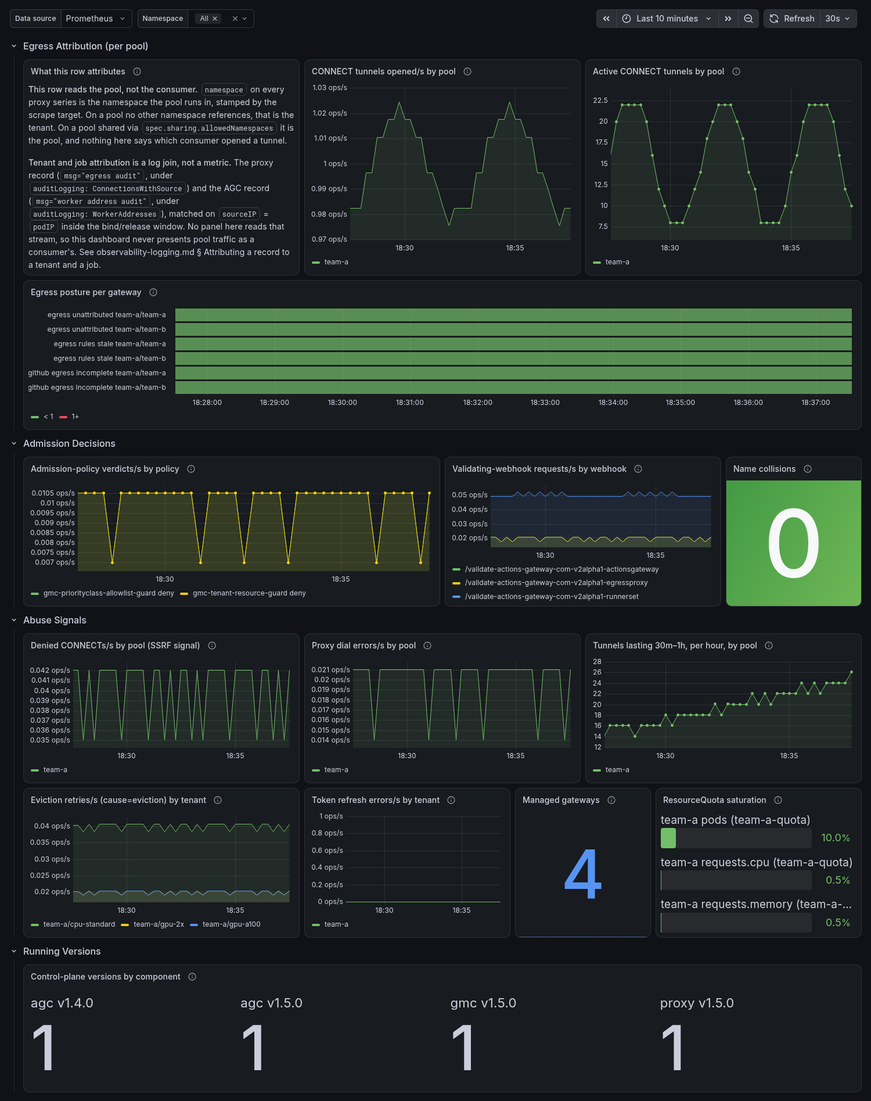
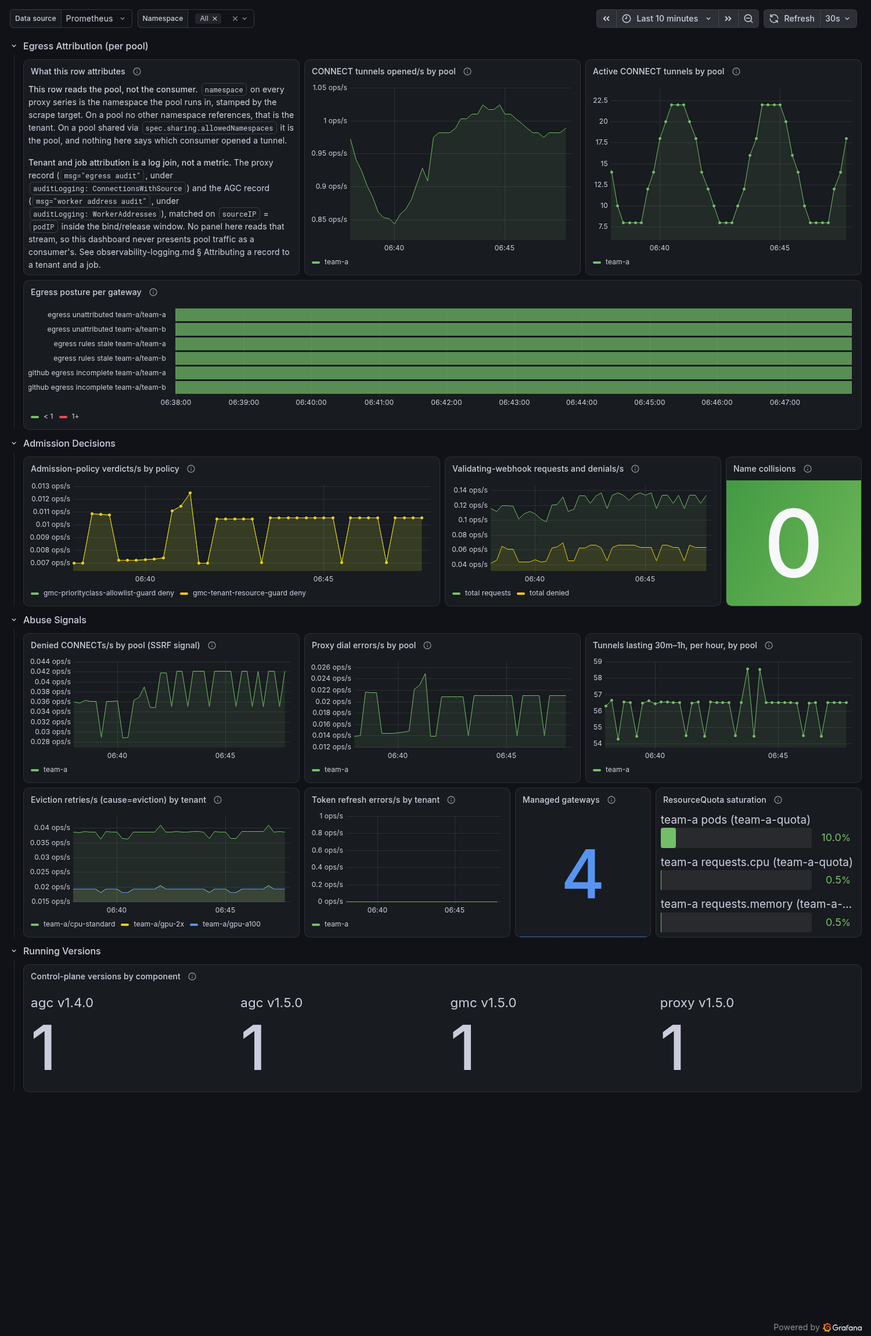
fix(monitoring): two abuse alerts that cannot fire (Q1061) (#1873)
* docs(queue): Q1061 lands; Q1071 files the gate gap that let it ship

Q1061's two inert abuse-alert expressions are fixed. Its stated cause was
wrong: promql-check does not parse the doc's expressions, it never opens
docs/operations/security-operations.md at all. Q1071 carries that,
measured, with the expression-only mode it needs.

* fix(monitoring): two abuse alerts that cannot fire (Q1061)

ActionsGatewayWebhookRejections selected code="403" on
controller_runtime_webhook_requests_total. A validating webhook returns
its denial as an HTTP 200 whose AdmissionReview body carries the 403 --
ValidationResponse sets Result.Code and writeAdmissionResponse takes an
io.Writer and never calls WriteHeader -- and the code label is the HTTP
status promhttp.InstrumentHandlerCounter observed, so the 403 series
never exists. The rule now reads the apiserver's own
apiserver_admission_webhook_rejection_count, which parses that body:
ToStatusErr preserves Result.Code, and the validating dispatcher passes
it as rejection_code with error_type=no_error. Scoped to the six webhook
names the chart ships, to no_error (reached and refusing, not
unreachable under failurePolicy Fail), and to 403 (a validator's denial,
against the 400 of a malformed AdmissionReview). The threat-map row that
made the same claim in prose moves with it, and the source becomes the
apiserver scrape.

ActionsGatewayProxyLongLivedTunnels subtracted two selectors differing
[…]

diff --git a/deploy/monitoring/preview/exporter.py b/deploy/monitoring/preview/exporter.py
@@ -38,6 +38,20 @@ GATED_SCALESETS = {("team-a", "gpu-a100"), ("team-b", "cpu-standard")}
 # set so the withheld stack shows a scaleup band without implying every set carries one.
 RATE_LIMITED_SCALESETS = {("team-a", "cpu-standard")}
 
+# Every validating webhook the chart ships, as (path, apiserver name, requests/s,
+# denials/s). All six are listed rather than a sample because the security
+# dashboard sums across them: a preview carrying a subset renders totals below
+# what any real install produces, and a legend sized against the wrong series
+# count (Q1061).
+WEBHOOKS = (
+    ("/validate-actions-gateway-github-com-v1alpha1-actionsgateway", "vactionsgateway-v1alpha1.kb.io", 0.02, 0.010),
+    ("/validate-actions-gateway-com-v2alpha1-actionsgateway", "vactionsgateway-v2alpha1.kb.io", 0.02, 0.010),
+    ("/validate-actions-gateway-com-v2alpha1-clusterrunnertemplate", "vclusterrunnertemplate-v2alpha1.kb.io", 0.01, 0.010),
+    ("/validate-actions-gateway-com-v2alpha1-egressproxy", "vegressproxy-v2alpha1.kb.io", 0.02, 0.010),
+    ("/validate-actions-gateway-com-v2alpha1-runnerset", "vrunnerset-v2alpha1.kb.io", 0.05, 0.012),
+    ("/validate-actions-gateway-com-v2alpha1-runnertemplate", "vrunnertemplate-v2alpha1.kb.io", 0.01, 0.010),
+)
+
 # Declared worker ceiling per scale set: the total the admission rungs subtract from,
 # and therefore the height of the withheld stack on the budget dashboard (Q969).
 SCALESET_CEILINGS = {
@@ -284,14 +298,20 @@ def render():
     # Admission decisions, read by the security dashboard. The GMC's validating
     # webhooks count every request on the controller-runtime counter, and a
     # denial is an HTTP 200 whose body carries the 403, so the synthetic series
-    # carry code="200" only. The ValidatingAdmissionPolicy verdicts come from
+    # carry code="200" only. The apiserver parses that body, so the denials the
+    # same panel plots come from its rejection counter instead (Q1061), which
+    # the kind apiserver cannot produce without the GMC's webhooks installed. Its
+    # rates sit just above the 0.01/s floor rather than at a realistic fraction
+    # of the request rate: below it the counter is flat across the render window
+    # (Q704), which reads as a broken panel. The ValidatingAdmissionPolicy verdicts come from
     # the apiserver's own counter, whose label values are lowercase (deny,
     # audit, warn, and allow for an evaluation error admitted under
     # failurePolicy Ignore) and whose error_type is never empty; the kind
     # apiserver behind the preview has no such policy, so the exporter stands
     # in for it under the names the chart's default namePrefix produces.
-    for hook, rate in (("runnerset", 0.05), ("actionsgateway", 0.02), ("egressproxy", 0.02)):
-        L.append(f'controller_runtime_webhook_requests_total{{webhook="/validate-actions-gateway-com-v2alpha1-{hook}",code="200"}} {counter_total(rate, elapsed)}')
+    for path, name, rate, denied in WEBHOOKS:
+        L.append(f'controller_runtime_webhook_requests_total{{webhook="{path}",code="200"}} {counter_total(rate, elapsed)}')
+        L.append(f'apiserver_admission_webhook_rejection_count{{name="{name}",type="validating",operation="CREATE",error_type="no_error",rejection_code="403"}} {counter_total(denied, elapsed)}')
     for policy in ("gmc-tenant-resource-guard", "gmc-priorityclass-allowlist-guard"):
         L.append(f'apiserver_validating_admission_policy_check_total{{policy="{policy}",policy_binding="{policy}-binding",error_type="no_error",enforcement_action="deny"}} {counter_total(0.01, elapsed)}')
 

diff --git a/docs/operations/security-operations.md b/docs/operations/security-operations.md
@@ -57,7 +57,7 @@ Two detection substrates are used:
 | **Proxy Pool Exhaustion / slowloris** ([§5.2](../design/05-security.md#52-agc--proxy-level-threats-namespace-scoped), M-17/M-18) | `proxy_connections_active` pinned near capacity; `proxy_tunnel_duration_seconds` mass in the 6h bucket | Metric | Page |
 | **Server-Side Request Forgery (SSRF) / destination probing via proxy** ([§5.2](../design/05-security.md#52-agc--proxy-level-threats-namespace-scoped), M-2/M-12) | `proxy_connect_denied_total` rate rising — every increment is an explicit allowlist denial (a workload reaching for an off-allowlist destination), so this is the precise signal; corroborate with a `proxy_dial_errors_total` spike. The counter says a probe happened, not what it reached: [per-connection egress audit](#per-connection-egress-audit) names the destination, but only on a pool that had it enabled before the incident | Metric (+ optional log) | Ticket |
 | **DoS via Resource Exhaustion** ([§5.2](../design/05-security.md#52-agc--proxy-level-threats-namespace-scoped)) — rogue workflow exhausting tenant quota | `kube_resourcequota` used/hard ratio sustained at 1.0 | Metric (kube-state-metrics) | Ticket |
-| **`ActionsGateway` CR in reserved namespace / spec probing** ([§5.1](../design/05-security.md#51-gmc-level-threats-cluster-scoped)) | Admission webhook `403` rejection rate | Metric (controller-runtime) | Ticket |
+| **`ActionsGateway` CR in reserved namespace / spec probing** ([§5.1](../design/05-security.md#51-gmc-level-threats-cluster-scoped)) | `apiserver_admission_webhook_rejection_count{error_type="no_error", rejection_code="403"}` rate on the GMC's webhook names. Read the **apiserver's** counter, not controller-runtime's: a validating webhook returns its denial as an HTTP 200 whose `AdmissionReview` body carries the 403, so `controller_runtime_webhook_requests_total{code=…}` cannot separate a deny from an allow | Metric (apiserver) | Ticket |
 | **Cross-Tenant GitHub App Credential Leakage / key compromise** ([§5.1](../design/05-security.md#51-gmc-level-threats-cluster-scoped)) | `token_refresh_errors_total` spike (key revoked out-of-band, or a forged token rejected) | Metric | Page |
 | **Mass tenant provisioning** ([§5.1](../design/05-security.md#51-gmc-level-threats-cluster-scoped)) — compromised GMC deploying workloads | `managed_gateways` jumps unexpectedly | Metric | Page |
 | **AGC overpermissioned Secret access** ([§5.2](../design/05-security.md#52-agc--proxy-level-threats-namespace-scoped), H-2 residual) — compromised AGC binary issuing a full-body Secret `list` | AGC ServiceAccount `list secrets` in audit log (legit code path is metadata-only — see [security.md H-2](../plan/security.md)) | Audit log | Page |
@@ -67,7 +67,7 @@ Two detection substrates are used:
 
 ## Prometheus abuse alerts
 
-These rules reference metrics that are emitted today ([observability.md § Full Metrics Reference](observability-metrics.md#full-metrics-reference)).
+These rules reference metrics that are emitted today ([observability.md § Full Metrics Reference](observability-metrics.md#full-metrics-reference)), except two that read the cluster rather than this project: `ActionsGatewayWebhookRejections` needs the apiserver scrape and `ActionsGatewayQuotaExhausted` needs kube-state-metrics.
 Drop them into the same `PrometheusRule` group as the SLO alerts, or a dedicated `actions-gateway-security` group.
 Tune thresholds to your fleet.
 The [security dashboard](observability-dashboards.md#security-dashboard) plots the series each rule fires on, one panel per rule, so a reviewer can read the signal behind an alert rather than only the alert.
@@ -114,13 +114,18 @@ groups:
       # Page: tunnels accumulating in the top (6h) duration bucket means
       # connections are riding the absolute lifetime cap — the M-18
       # slowloris signature.
+      #
+      # Each bucket is summed per namespace before the subtraction (Q1061). A
+      # bare `increase(...) - increase(...)` is a one-to-one vector match on
+      # every label, and the two sides differ on `le`, so nothing matches and
+      # the rule can never fire.
       - alert: ActionsGatewayProxyLongLivedTunnels
         expr: |
-          increase(
-            actions_gateway_proxy_tunnel_duration_seconds_bucket{le="3600"}[1h]
+          sum by (namespace) (
+            increase(actions_gateway_proxy_tunnel_duration_seconds_bucket{le="3600"}[1h])
           ) -
-          increase(
-            actions_gateway_proxy_tunnel_duration_seconds_bucket{le="1800"}[1h]
+          sum by (namespace) (
+            increase(actions_gateway_proxy_tunnel_duration_seconds_bucket{le="1800"}[1h])
           ) > 20
         for: 15m
         labels:
@@ -196,15 +201,37 @@ groups:
 
       # Ticket: admission webhook rejecting CRs — a tenant repeatedly
       # probing reserved namespaces or invalid specs.
+      #
+      # This reads the APISERVER's rejection counter, not the GMC's request
+      # counter (Q1061). controller-runtime returns a denial as an HTTP 200
+      # whose AdmissionReview body carries the 403, so
+      # controller_runtime_webhook_requests_total{code="403"} selects a series
+      # that never exists. The apiserver reads the body, so it records the 403.
+      #
+      # error_type="no_error" means the webhook was reached and said no. The
+      # other values (calling_webhook_error, apiserver_internal_error) are the
+      # GMC being unreachable under failurePolicy: Fail, an availability
+      # problem alerted elsewhere rather than abuse. rejection_code="403" is
+      # what a validator's Denied() produces; a 400 is a malformed
+      # AdmissionReview.
+      # Label semantics read from kubernetes/kubernetes at release-1.36 on
+      # 2026-09-07. The metric is ALPHA-stability, so the label set can change
+      # across minor versions.
       - alert: ActionsGatewayWebhookRejections
         expr: |
-          rate(controller_runtime_webhook_requests_total{code="403"}[10m]) > 0.1
+          sum by (name, operation) (
+            rate(apiserver_admission_webhook_rejection_count{
+              name=~"v(actionsgateway-v1alpha1|actionsgateway-v2alpha1|clusterrunnertemplate-v2alpha1|egressproxy-v2alpha1|runnerset-v2alpha1|runnertemplate-v2alpha1)\\.kb\\.io",
+              error_type="no_error",
+              rejection_code="403"
+            }[10m])
+          ) > 0.1
         for: 15m
         labels:
           severity: warning
         annotations:
-          summary: "Admission webhook rejecting ActionsGateway requests"
-          description: "Sustained 403s from the validating webhook. Check which principal is submitting CRs to reserved namespaces or with invalid specs."
+          summary: "Admission webhook {{ $labels.name }} rejecting {{ $labels.operation }} requests"
+          description: "Sustained denials from a GMC validating webhook. Check which principal is submitting CRs to reserved namespaces or with invalid specs. Requires the apiserver scrape (kube-prometheus-stack scrapes it by default); the GMC scrape cannot answer this."
 ```
 
 > **Note on labels.** The proxy metrics (`actions_gateway_proxy_*`) carry no intrinsic `namespace` label — each per-tenant proxy is a separate scrape target.

diff --git a/docs/queue/Q1074.md b/docs/queue/Q1074.md
@@ -1,0 +1,40 @@
+---
+id: Q1074
+rank: b48
+labels:
+    - debt
+    - tests
+status: ready
+size: S
+target: ../../deploy/monitoring/preview/render.sh
+---
+
+# render.sh reports success on an all-empty dashboard render
+
+`render()` checks that Grafana's `/render` call returned HTTP 200 and prints the file size.
+Neither reading can tell a populated dashboard from one where every panel says "No data", so the harness exits 0 and writes four PNGs a session then commits.
+
+Measured 2026-09-07 while working Q1061.
+An `exporter.py` edit tripped the Q704 counter floor (`ValueError: counter rate 0.004 is below 0.01/s`), so the process died at startup: `__main__` calls `render()` unconditionally before `HTTPServer(...).serve_forever()` and outside any `try`, and `counter_total` raises on `rate < MIN_COUNTER_RATE` alone, with no dependence on `elapsed`.
+Confirmed by running the edited file directly, which exited 1 on that line without binding :9100.
+That startup crash is the Q704 design working as its docstring says it should.
+Prometheus scraped nothing for the whole 660s window, every panel on all four dashboards rendered "No data", and `render.sh` exited 0 and wrote the PNGs.
+
+**Why `kubectl rollout status` still passed is not established, and the row does not need it.** The container carries no `readinessProbe` and no `livenessProbe`, so a pod counts Ready the moment the container is Running, which a process that starts and exits satisfies for a moment.
+That fits `render.sh` logging `successfully rolled out`, and it is a hypothesis: a peer session re-applied the shared cluster from its own worktree before the pod state was inspected, so the ReplicaSet sequence this run actually produced was not observed and cannot be recovered.
+What is verified is the pair that makes the gap real either way: `rollout status` on a probe-less Deployment is the only liveness gate the harness has, and nothing afterwards checks that a single series exists.
+The security PNG was 223,577 bytes against the committed one's 281,994, so size is not a signal either: a dark-theme dashboard of empty panels compresses to the same order as a full one, and `trim_bottom` crops to the last non-background row, which the panel chrome supplies regardless.
+
+What caught it was opening the PNG.
+Nothing else in the loop would have: `make dashboard-render-check` compares *whether* the PNG changed against the JSON diff, never what it shows, so a committed empty render satisfies it exactly as a good one does.
+
+**The check belongs before the render, not after it.** A sentinel query against Prometheus once the accumulation window closes fails in seconds with a cause (`actions_gateway_build_info` has no `namespace` label and no rate, so it is present or the scrape is broken), where a post-hoc pixel heuristic on the PNG would be both slower and vaguer.
+Worth also failing on a `/metrics` fetch that does not return 200 before the wait starts, which would have caught this instance 11 minutes earlier.
+
+**A sentinel proves the data exists, not that the render is readable**, and the second failure mode is the one nothing here can reach.
+A panel populated *wrongly* passes every check in the loop: the Q969 session's own render of this same harness came back with two stacked panels auto-scaling their y-axis to a ~50 floor, truncating the bottom band of a stack whose entire claim is that the total equals a declared ceiling, and with refusal bands at roughly 1% of the acquired series, rendering the panel as one solid blob.
+Both are legible only to a human or a vision pass opening the image.
+So the sentinel is the cheap floor rather than the answer, and a session that adds one has not been relieved of looking at the PNG.
+
+Neighbour to [Q1072](Q1072.md), which is the harness's other unguarded shared-state problem: no lock on the `gag-obs` cluster.
+Different mechanism, and one fix does not close the other: a lock still lets a session commit an empty render, and a sentinel query still lets two sessions overwrite each other's Grafana.

diff --git a/docs/operations/observability-dashboards.md b/docs/operations/observability-dashboards.md
@@ -300,7 +300,7 @@ Expect it near-solid `1` across a fleet that has not opted in, which is a true r
 | Panel | Query | Visualization |
 |-------|-------|---------------|
 | Admission-policy verdicts/s by policy | `sum by (policy, enforcement_action) (rate(apiserver_validating_admission_policy_check_total{policy=~".*-(namespace-psa-guard\|namespace-security-profile-guard\|priorityclass-allowlist-guard\|tenant-resource-guard)"}[5m]))` | Time series, split by the action the binding took: `deny` rejected the write, `audit` and `warn` let a failed validation through, and `allow` is an evaluation error (`error_type` of `compile_error`, `invalid_error`, or `out_of_budget`) admitted under `failurePolicy: Ignore`. The apiserver never increments the counter for a validation that simply passed, so the series is what the policies refused or could not evaluate, not a request count. Values read from `kubernetes/kubernetes` at `release-1.36` on 2026-09-07. The policy name is matched on its suffix because the chart prefixes it with the release's `namePrefix`. Apiserver scrape |
-| Validating-webhook requests/s by webhook | `sum by (webhook) (rate(controller_runtime_webhook_requests_total[5m]))` | Time series. Says the GMC's webhooks are being exercised, not how often they refused: controller-runtime writes a denial as an HTTP 200 whose `AdmissionReview` body carries the 403, so the `code` label cannot separate a deny from an allow, and no metric today counts webhook rejections ([Q1061](../queue/Q1061.md)) |
+| Validating-webhook requests and denials/s | `sum (rate(controller_runtime_webhook_requests_total{webhook=~"/validate-.*"}[5m]))` and `sum (rate(apiserver_admission_webhook_rejection_count{name=~"v(actionsgateway-v1alpha1\|actionsgateway-v2alpha1\|clusterrunnertemplate-v2alpha1\|egressproxy-v2alpha1\|runnerset-v2alpha1\|runnertemplate-v2alpha1)\\.kb\\.io", error_type="no_error", rejection_code="403"}[5m]))` | Time series, two series: total requests and total denied. Both are summed across the six validating webhooks the chart ships rather than broken down: a per-webhook split overflows the cell's legend, and the `ActionsGatewayWebhookRejections` alert carries the offending webhook in its `name` label, so the breakdown is available where an operator acts on it. The GMC scrape says only that the webhooks are being exercised: controller-runtime writes a denial as an HTTP 200 whose `AdmissionReview` body carries the 403, so its `code` label cannot separate a deny from an allow. The apiserver reads that body, so its rejection counter is the series that answers how often a webhook refused (`ActionsGatewayWebhookRejections`), scoped to `error_type="no_error"` (the webhook reached and refusing, not the GMC unreachable under `failurePolicy: Fail`) and to the 403 a validator's denial produces, as against the 400 of a malformed `AdmissionReview`. Apiserver scrape. Label semantics read from `kubernetes/kubernetes` at `release-1.36` on 2026-09-07; the metric is ALPHA-stability |
 | Name collisions | `sum(actions_gateway_scale_set_name_collision)` | Stat (≥1 = red), scale-set name collisions; the title drops the prefix because a 4-wide stat truncates it. Admission rejects every new pair, so a `1` predates the guard or was applied with the webhook uninstalled |
 
 **Row 3: Abuse Signals**

diff --git a/deploy/monitoring/preview/README.md b/deploy/monitoring/preview/README.md
@@ -75,6 +75,26 @@ Common knobs (environment variables):
 | `FROM` / `TO` | `now-10m` / `now` | Dashboard time range. Matched to `WAIT` so the whole window is backed by data. |
 | `CLUSTER` | `gag-obs` | kind cluster name. |
 
+### Reading a render
+
+Open the PNG.
+The harness cannot tell you whether it is right: `render.sh` checks Grafana's HTTP 200 and prints a byte count, and neither separates a populated dashboard from one where every panel reads "No data" (Q1074).
+
+Two traps cost a render each, both found adding a series to the security dashboard's webhook panel:
+
+- **A solo render cannot answer whether a legend is clipped.** `/render/d-solo/<uid>/<uid>?panelId=N&width=…&height=…` grows the returned image to fit the legend whatever height you ask for, so a panel whose legend is cut off in the dashboard shows every entry when rendered alone, at any size.
+  Only the full-dashboard render is faithful to the grid cell.
+  Use the solo render to read a panel closely, never to judge whether it fits.
+- **Legend capacity is not a row count you can derive, and panel height does not buy you rows.** Three renders of the same `w=8, h=7` cell: six labels at full path length clipped three; six short labels (`actionsgateway requests`) fitted in three rows with nothing cut; seven medium labels (`clusterrunnertemplate-v2alpha1 denied`) showed only four.
+  Raising that panel to `h=10` still clipped, and shifted the ten panels below it.
+  The middle case is the committed artifact, so six entries demonstrably fit: capacity moves with label width in a way these three points do not pin down.
+  What they do support is the response: once a legend needs more than about two rows, reduce the number of series rather than the length of their names, and render to confirm.
+
+`label_replace(…, "kind", "$1", …)` is the obvious way to shorten them and **does not work here**: `make promql-check` rejects a `$1` in a dashboard expression, because Grafana's own `$var` interpolation reaches it. The working shape is a `renameByRegex` transformation on the panel, where the `$1` belongs to Grafana's rename machinery rather than to the query.
+
+**A shortening regex has to be injective, and one that parses the name's shape usually is not.** Deriving a label from a webhook path with `.*-([a-z]+)` reads the resource off the end and drops the API version, so `…-github-com-v1alpha1-actionsgateway` and `…-com-v2alpha1-actionsgateway` both render `actionsgateway` and two bands become indistinguishable: exactly the defect the panel was being fixed for.
+Prefer stripping a constant prefix and suffix (`v(.*)\.kb\.io`), which cannot collide whatever names are added later, and check the rename against the full set the chart ships rather than the subset the exporter fakes.
+
 ## Iterating
 
 - Changed the **dashboard JSON or rules**?

diff --git a/docs/queue/Q1077.md b/docs/queue/Q1077.md
@@ -1,0 +1,42 @@
+---
+id: Q1077
+rank: b48
+labels:
+    - debt
+    - docs
+status: ready
+size: S
+target: ../../deploy/monitoring/preview/workload.yaml
+---
+
+# Preview scrape overrides the exporter's namespace label
+
+`exporter.py` fakes a two-tenant fleet by emitting explicit `namespace="team-a"` and `namespace="team-b"` labels from a single pod.
+The ServiceMonitor at `workload.yaml` sets no `honorLabels`, which defaults to `false`, so Prometheus resolves the collision in the scrape target's favour: the exposed label is renamed `exported_namespace` and `namespace` becomes the pod's own namespace, `team-a`, on every series.
+
+Every per-tenant panel in all four published screenshots is therefore single-tenant, and the images undersell the dashboards they document.
+
+Measured 2026-09-07 against the live preview stack:
+
+```
+count by (namespace) (actions_gateway_active_sessions)
+  -> [{namespace: team-a}]
+count by (exported_namespace) (actions_gateway_active_sessions)
+  -> [{exported_namespace: team-a}, {exported_namespace: team-b}]
+```
+
+One series carried `exported_namespace="team-b"` beside `namespace="team-a"`, which is the collision itself in a single sample.
+
+The fix is `honorLabels: true` on the ServiceMonitor endpoint.
+That is right for the preview specifically and would be wrong in a real install: there the AGC runs one pod per tenant, so the target's `namespace` is the tenant's and the scrape default is what you want.
+The preview stands a fleet up from one pod, so only the exposed label carries the tenant.
+Re-render all four screenshots after the change, since every per-tenant panel moves.
+
+**Whoever runs the re-render: open the budget PNG and count the legend entries on both Row 5 panels.** Eight expected on each, `team-a`/`team-b` against advertised plus the three rungs.
+They show four today only because this defect collapses both namespaces into one, so flipping `honorLabels` doubles them, and a panel that fits four may not fit eight.
+The labels are short (`team-a withheld: quota`, ~22 characters) so they probably fit, which is exactly what the security dashboard's webhook panel looked like before three of its six entries turned out to be clipped.
+If they clip, drop the redundant `withheld:`/`refused:` from the legend format; the panel titles already carry it, and it is a one-line change per panel that improves the legend either way.
+Raised by the Q969 session, which declined to pre-empt it on a green PR because the risk does not exist until this row lands.
+
+Spotted by the Q969 session while opening its render rather than trusting the harness's exit code, and confirmed here from the config and the query above.
+Related: Q1074, on the harness reporting success for a render nothing looked at.

diff --git a/docs/queue/Q1071.md b/docs/queue/Q1071.md
@@ -1,0 +1,26 @@
+---
+id: Q1071
+rank: b48
+labels:
+    - debt
+    - tests
+    - security
+status: ready
+size: S
+target: ../../scripts/manifest/check-promql.sh
+---
+
+# promql-check never reads the security doc's shipped alert group
+
+`check-promql.sh` passes the checker four kinds of input: `deploy/monitoring/prometheusrule.yaml`, `docs/operations/observability-alerting.md`, `docs/operations/runbook.md`, and the four dashboard JSONs.
+`docs/operations/security-operations.md` is not among them, so the nine-rule `actions-gateway-security` group that doc tells an operator to drop into a `PrometheusRule` has never been parsed by anything.
+
+That is what let Q1061's two inert expressions ship, and Q1061 named the wrong cause: it said the gate parses the doc's expressions and a well-formed query selecting nothing is what the gate cannot see.
+The first half is false: the gate never opens the file.
+Measured 2026-09-07 by extracting the doc's fenced `groups:` block into a synthetic `PrometheusRule` and running `scripts/manifest/check-promql.sh` on it: all nine expressions parsed, and a deliberate `{{` in one produced `expr does not parse`, so the checker would have had an opinion had it been pointed at the file.
+
+**Adding the file needs an expression-only mode, which is why this is not one line.** The doc's group is a reference operators copy, not a shipped rule, so the same probe returned eight `has no runbook_url annotation` findings and one missing runbook heading, all of it policy the checker applies to `prometheusrule.yaml` and that does not hold here.
+`run()` currently takes one doc path and spends it on `checkMirror`/`checkRunbook` against the shipped rule; this needs a second doc path that gets `docBlocks` + `checkExprs` and nothing else, plus a printed rule count so a walk that stopped reaching the block reads as a gap rather than a pass, which is the argument the dashboard target count already makes.
+
+Neighbour to [Q996](Q996.md), which is the other direction: there the gate reads the right file and compares too little (`for:` and every label unguarded).
+One fix does not close the other, and the two together are what "guards less than it reads as" means for this tool.

diff --git a/docs/queue/Q1072.md b/docs/queue/Q1072.md
@@ -32,4 +32,4 @@ Two candidate fixes, and the row does not pick one: a per-session cluster name (
 
 **Notes:** the harness is a preview tool, so a failure never reaches CI.
 It costs a session its render and, in the interleaved case, ships a wrong screenshot past a green gate.
-A lock does not subsume Q1074 (unlinked: that row lands on another branch): a locked run can still render an empty exporter, and a series sentinel can still be overwritten by a peer's apply.
+A lock does not subsume [Q1074](Q1074.md): a locked run can still render an empty exporter, and a series sentinel can still be overwritten by a peer's apply.
